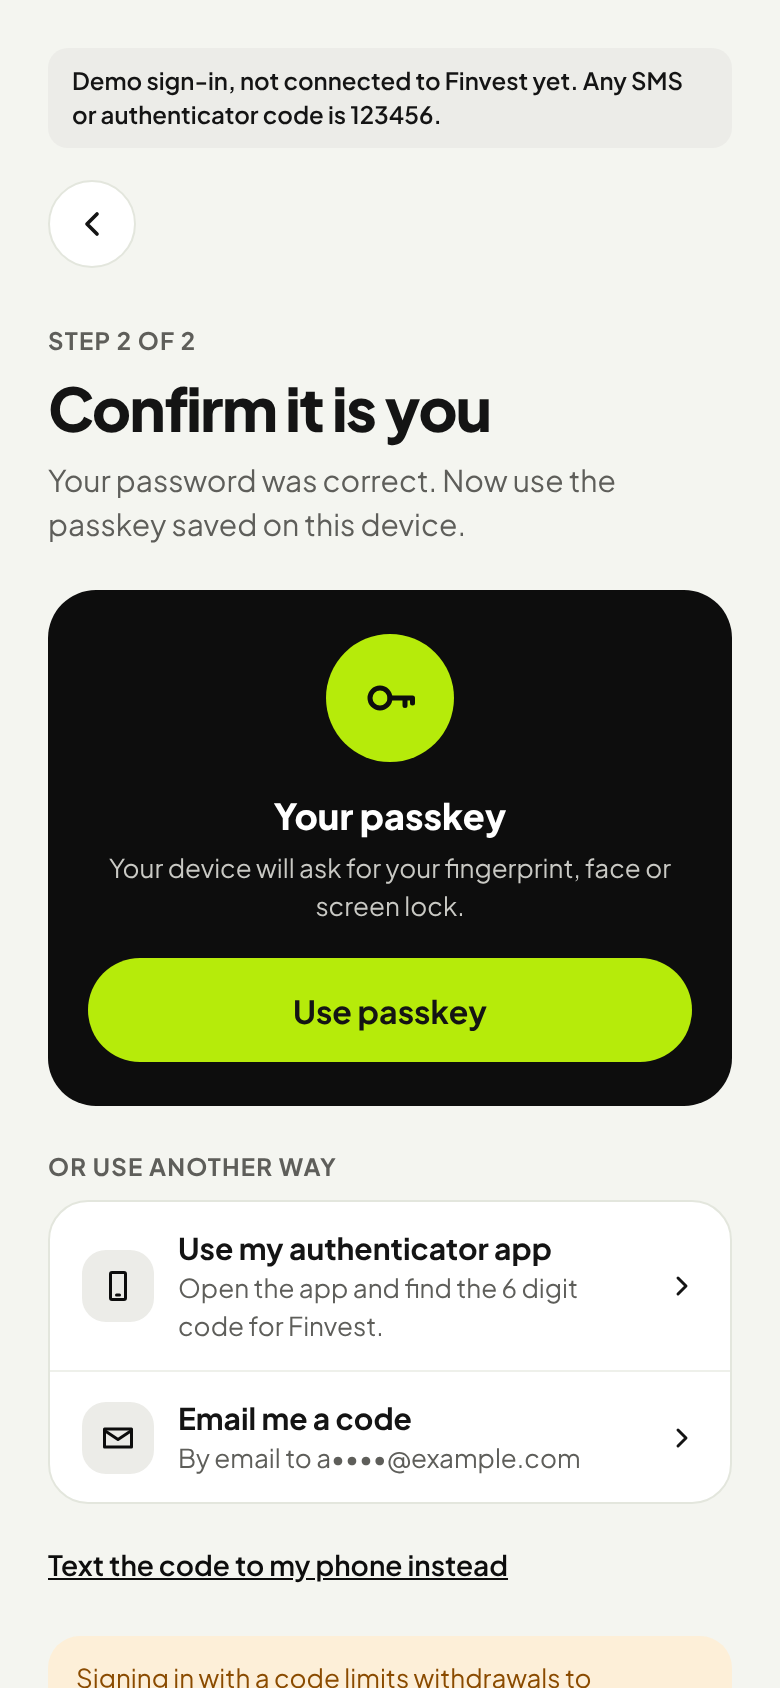
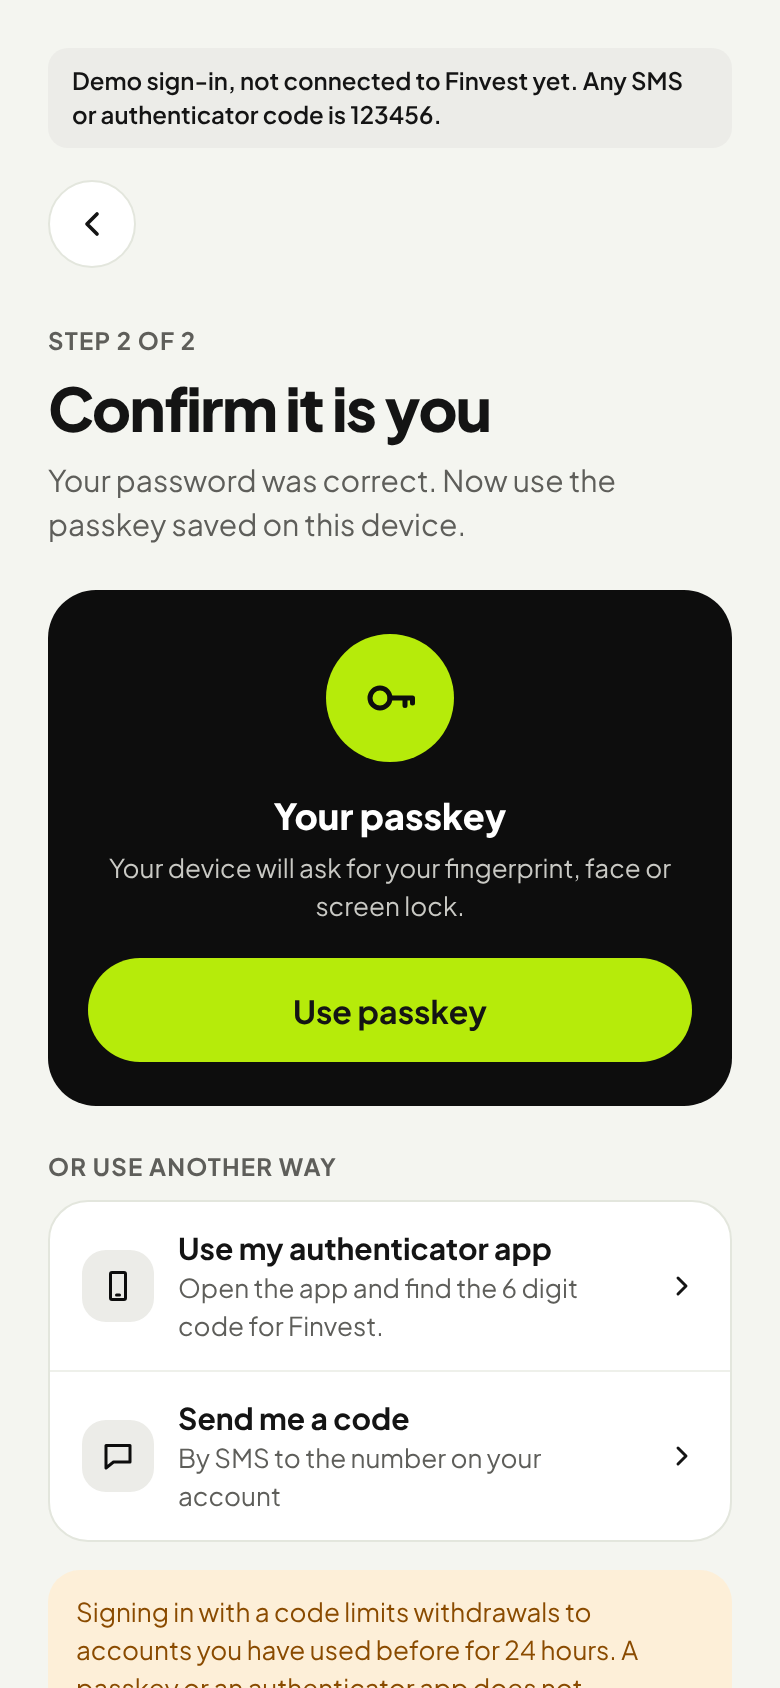
Email sign-in codes only to a proved address, and try every holder
Follow-ups from the review of the unconfirmed email log in. A code asked
for by email to an address the client has not proved is texted instead,
and the log in answer says whether a code can be emailed, so the app
offers the email only when it is proved. Several accounts may hold one
unproved address: the password is now tried against each of them (up to
three, newest first), so another account giving the same address cannot
shut the owner out of email log in.

diff --git a/apps/client/src/auth/__tests__/apiAuthClient.test.ts b/apps/client/src/auth/__tests__/apiAuthClient.test.ts
@@ -106,7 +106,7 @@ describe("the sign-in client for the real API", () => {
 
   it("logs in by a proved email and sends the code there", async () => {
     const seen = serve({
-      "POST /client/login/start": { status: 200, body: { login_id: ID, methods: ["code"] } },
+      "POST /client/login/start": { status: 200, body: { login_id: ID, methods: ["code"], email_codes: true } },
       "POST /client/login/code/send": { status: 204 },
     });
     const client = createApiAuthClient();
@@ -117,6 +117,12 @@ describe("the sign-in client for the real API", () => {
       { email: "amara@example.com", password: "pw" },
       { login_id: ID, channel: "email" },
     ]);
+  });
+
+  it("never offers to email a code to an address not proved yet", async () => {
+    serve({ "POST /client/login/start": { status: 200, body: { login_id: ID, methods: ["code"], email_codes: false } } });
+    const challenge = await createApiAuthClient().startLogin({ email: "amara@example.com" }, "pw");
+    expect(challenge).toEqual({ loginId: ID, phone: null, email: null, methods: ["code"] });
   });
 
   it("says an email log in was refused in words about the email", async () => {

diff --git a/apps/client/src/auth/__tests__/stubAuthClient.test.ts b/apps/client/src/auth/__tests__/stubAuthClient.test.ts
@@ -98,8 +98,10 @@ describe("log in", () => {
     // Joseph proved his address; Amara has not proved hers yet.
     const challenge = await auth.startLogin({ email: "Joseph@Example.com" }, DEMO_PASSWORD);
     expect(challenge).toMatchObject({ phone: null, email: "joseph@example.com" });
+    // Not proved, so no code goes to that address: it is texted instead.
     await expect(auth.startLogin({ email: "amara@example.com" }, DEMO_PASSWORD)).resolves.toMatchObject({
-      email: "amara@example.com",
+      phone: null,
+      email: null,
     });
     expect(await codeOf(auth.startLogin({ email: "amara@example.com" }, "wrong password"))).toBe(
       "invalid_email_credentials",

diff --git a/apps/client/src/auth/stubAuthClient.ts b/apps/client/src/auth/stubAuthClient.ts
@@ -463,7 +463,9 @@ export function createStubAuthClient(options: StubOptions = {}): AuthClient {
       }
       const loginId = nextId("login");
       logins.set(loginId, phone);
-      return { loginId, phone: byEmail ? null : phone, email, methods: methodsFor(account) };
+      // Like the API, a code is emailed only to a proved address.
+      const codeEmail = byEmail && account.emailVerified ? email : null;
+      return { loginId, phone: byEmail ? null : phone, email: codeEmail, methods: methodsFor(account) };
     },
 
     async verifyWithPasskey(loginId): Promise<Session> {

diff --git a/apps/client/src/auth/types.ts b/apps/client/src/auth/types.ts
@@ -135,7 +135,10 @@ export type LoginChallenge = {
   loginId: string;
   /** The number typed to log in. Null for a log in by email, which never shows the number. */
   phone: string | null;
-  /** The proved address typed to log in, so a code can go there. Null for a log in by number. */
+  /**
+   * The address typed to log in, when it is proved, so a code can go there.
+   * Null for a log in by number, or by an address not confirmed yet.
+   */
   email: string | null;
   /** Where the code was last sent, once one has been. */
   codeSentBy?: CodeChannel;

diff --git a/apps/client/src/__tests__/signInFlow.test.tsx b/apps/client/src/__tests__/signInFlow.test.tsx
@@ -95,6 +95,9 @@ describe("the shell, from the first screen", () => {
     await fireEvent.changeText(screen.getByTestId("password-input"), DEMO_PASSWORD);
     await fireEvent.press(screen.getByTestId("login-submit"));
     await screen.findByText("Confirm it is you");
+    // The address is not confirmed, so a code is texted, never emailed there.
+    expect(screen.queryByText(/By email to/)).toBeNull();
+    expect(screen.getByText("Send me a code")).toBeTruthy();
   });
 
   it("shows one message for a wrong password and stays on the form", async () => {

diff --git a/apps/client/src/auth/apiAuthClient.ts b/apps/client/src/auth/apiAuthClient.ts
@@ -150,7 +150,8 @@ export function createApiAuthClient(): AuthClient {
           return {
             loginId: result.login_id,
             phone: byEmail ? null : identifier.phone,
-            email: byEmail ? identifier.email.trim() : null,
+            // A code goes by email only to an address the client proved. Otherwise it is texted.
+            email: byEmail && result.email_codes ? identifier.email.trim() : null,
             methods: usable(result.methods),
           };
         } catch (error) {

diff --git a/packages/api-client/src/staff.gen.ts b/packages/api-client/src/staff.gen.ts
@@ -1872,6 +1872,7 @@ export const LoginPasskeyOptions = z.object({
 export type LoginPasskeyOptions = z.infer<typeof LoginPasskeyOptions>;
 
 export const LoginStarted = z.object({
+  email_codes: z.boolean().optional(),
   login_id: z.string(),
   methods: z.array(z.enum(["passkey", "authenticator", "code", "signup"])),
 });

diff --git a/packages/api-client/src/client.gen.ts b/packages/api-client/src/client.gen.ts
@@ -893,6 +893,7 @@ export const LoginPasskeyOptions = z.object({
 export type LoginPasskeyOptions = z.infer<typeof LoginPasskeyOptions>;
 
 export const LoginStarted = z.object({
+  email_codes: z.boolean().optional(),
   login_id: z.string(),
   methods: z.array(z.enum(["passkey", "authenticator", "code", "signup"])),
 });

diff --git a/backend/app/modules/identity/service.py b/backend/app/modules/identity/service.py
@@ -52,6 +52,8 @@ AccountKind = Literal["client", "staff"]
 ACCOUNT_FROM_ADDRESS_ATTEMPTS = 4  # Solo, 2026-11-15
 ACCOUNT_ATTEMPTS = 20
 ADDRESS_ATTEMPTS = 50
+# Accounts tried for one email address that none of them has proved. Each costs a hash check.
+UNPROVED_HOLDERS_TRIED = 3
 TOUCH_INTERVAL = timedelta(minutes=1)
 # Approving another person's change needs a second step this recent.
 CONFIRMATION_WINDOW = timedelta(minutes=10)
@@ -69,6 +71,8 @@ class _PasswordMatch:
     id: str
     password_hash: str
     proved: bool
+    # The client has proved the email address on their account, so codes may go there.
+    email_proved: bool
 
 
 @dataclass(frozen=True, slots=True)
@@ -77,6 +81,8 @@ class LoginChallenge:
     methods: list[SecondStep]
     # The client, when they signed in by an email address they have not proved yet.
     unproved_email_of: str | None = None
+    # Whether a sign-in code may be emailed: only to an address the client proved.
+    email_codes: bool = False
 
 
 @dataclass(frozen=True, slots=True)
@@ -279,7 +285,10 @@ class IdentityService:
         logger.info("login_started", kind=kind, login_id=challenge_id)
         # In the order to offer them. The person finishes with any one.
         return LoginChallenge(
-            challenge_id, methods, unproved_email_of=None if account.proved else account.id
+            challenge_id,
+            methods,
+            unproved_email_of=None if account.proved else account.id,
+            email_codes=account.email_proved,
         )
 
     async def _check_password(
@@ -304,41 +313,75 @@ class IdentityService:
 
         if kind == "client" and by_email:
             # Only one account can prove an address, but several may hold it unproved. A proved
-            # holder answers for the address, and otherwise the newest account holding it.
+            # holder alone answers for the address. Otherwise every holder is tried, newest
+            # first, so another account giving the same address cannot shut the owner out.
             query = (
-                "SELECT id, phone, password_hash, email_verified_at IS NOT NULL AS proved "
+                "SELECT id, phone, password_hash, email_verified_at IS NOT NULL AS proved, "
+                "email_verified_at IS NOT NULL AS email_proved "
                 "FROM identity_clients WHERE email = :identifier AND status = 'active' "
-                "ORDER BY email_verified_at IS NOT NULL DESC, created_at DESC, id DESC LIMIT 1"
+                "ORDER BY email_verified_at IS NOT NULL DESC, created_at DESC, id DESC "
+                "LIMIT :holders"
             )
         elif kind == "client":
             query = (
-                "SELECT id, phone, password_hash, true AS proved FROM identity_clients "
+                "SELECT id, phone, password_hash, true AS proved, "
+                "email_verified_at IS NOT NULL AS email_proved FROM identity_clients "
                 "WHERE phone = :identifier AND status = 'active'"
             )
         else:
             query = (
-                "SELECT id, email AS phone, password_hash, true AS proved FROM identity_staff "
-                "WHERE email = :identifier AND status = 'active'"
+                "SELECT id, email AS phone, password_hash, true AS proved, false AS email_proved "
+                "FROM identity_staff WHERE email = :identifier AND status = 'active'"
             )
         async with self.database.transaction() as session:
-            account = (await session.execute(text(query), {"identifier": identifier})).one_or_none()
+            rows = list(
+                (
+                    await session.execute(
+                        text(query), {"identifier": identifier, "holders": UNPROVED_HOLDERS_TRIED}
+                    )
+                ).all()
+            )
+        if rows and rows[0].proved:
+            rows = rows[:1]
 
         # A client's attempts count against their number whichever way they sign in, so the
-        # email gives no second budget of guesses. An unknown address counts against itself.
-        counted = account.phone if account is not None and kind == "client" else identifier
-        account_key = throttle_key(f"{kind}-account", counted)
-        pair_key = throttle_key(f"{kind}-account-from", f"{counted}\x00{address}")
-        keys = [(account_key, ACCOUNT_ATTEMPTS), (pair_key, ACCOUNT_FROM_ADDRESS_ATTEMPTS)]
+        # email gives no second budget of guesses. A guess at an address several accounts hold
+        # counts against each of them. An unknown address counts against itself.
+        counted = [row.phone for row in rows] if rows and kind == "client" else [identifier]
+        own_keys = {
+            phone: [
+                throttle_key(f"{kind}-account", phone),
+                throttle_key(f"{kind}-account-from", f"{phone}\x00{address}"),
+            ]
+            for phone in counted
+        }
+        keys = [
+            (key, limit)
+            for account_key, pair_key in own_keys.values()
+            for key, limit in (
+                (account_key, ACCOUNT_ATTEMPTS),
+                (pair_key, ACCOUNT_FROM_ADDRESS_ATTEMPTS),
+            )
+        ]
         if address is not None:
             keys.append((throttle_key("address", address), ADDRESS_ATTEMPTS))
         await reserve_attempts(self.database, self.clock, keys)
 
-        hashed = account.password_hash if account is not None else None
-        if not await self.hasher.verify(password, hashed) or account is None:
+        # One hash check per holder, or one against nothing when there is none.
+        account = None
+        if not rows:
+            await self.hasher.verify(password, None)
+        for row in rows:
+            if await self.hasher.verify(password, row.password_hash):
+                account = row
+                break
+        if account is None:
             logger.info("login_refused", kind=kind, error_code="invalid_credentials")
             raise ApplicationError("invalid_credentials")
-        match = _PasswordMatch(account.id, account.password_hash, bool(account.proved))
-        return match, [account_key, pair_key]
+        match = _PasswordMatch(
+            account.id, account.password_hash, bool(account.proved), bool(account.email_proved)
+        )
+        return match, own_keys[account.phone if kind == "client" else identifier]
 
     # Sessions
 

diff --git a/backend/tests/integration/test_email_checks.py b/backend/tests/integration/test_email_checks.py
@@ -315,13 +315,66 @@ async def test_a_proved_holder_answers_for_an_address_another_holds_unproved(api
     await api.identity.create_client(
         phone=f"+256{number}", email=email, password="another-long-passphrase"
     )
-    # Unproved, the newest holder answers for the address.
+    # Unproved, every holder is tried, so each logs in with their own password.
     assert (await login_by_email(api, email, "another-long-passphrase")).status_code == 200
+    assert (await login_by_email(api, email)).status_code == 200
     assert (await prove(api, email, first)).status_code == 204
     # Then the proved holder does, so the other account's password is refused.
     other = await login_by_email(api, email, "another-long-passphrase")
     assert (other.status_code, other.json()["error"]["code"]) == (401, "invalid_credentials")
     assert (await login_by_email(api, email)).status_code == 200
+
+
+async def test_a_newer_unproved_holder_cannot_shut_the_older_one_out(api: Api) -> None:
+    _, email, _ = await a_client(api)
+    assert email is not None
+    api.clock.advance(seconds=1)
+    await api.identity.create_client(
+        phone=f"+256{next(_numbers)}", email=email, password="another-long-passphrase"
+    )
+    older = await login_by_email(api, email)
+    assert older.status_code == 200
+    neither = await login_by_email(api, email, "not-the-password-at-all")
+    assert (neither.status_code, neither.json()["error"]["code"]) == (401, "invalid_credentials")
+
+
+async def sent_codes(api: Api, channel: str) -> list[str]:
+    async with api.worker.transaction() as session:
+        rows = await session.execute(
+            text(
+                "SELECT recipient FROM notification_messages "
+                "WHERE channel = :channel AND template = 'sign_in_code' ORDER BY id"
+            ),
+            {"channel": channel},
+        )
+        return [row.recipient for row in rows]
+
+
+async def test_sign_in_codes_are_emailed_only_to_a_proved_address(api: Api) -> None:
+    client_id, email, bearer = await a_client(api)
+    assert email is not None
+    async with api.worker.transaction() as session:
+        contact = await client_contact(session, client_id)
+    assert contact is not None
+    unproved = await login_by_email(api, email)
+    assert unproved.json()["email_codes"] is False
+    asked = await api.http.post(
+        "/client/login/code/send",
+        json={"login_id": unproved.json()["login_id"], "channel": "email"},
+    )
+    assert asked.status_code == 204
+    # Asked for by email, but texted, because the address is not proved.
+    assert email not in await sent_codes(api, "email")
+    assert contact.phone in await sent_codes(api, "sms")
+
+    assert (await prove(api, email, bearer)).status_code == 204
+    proved = await login_by_email(api, email)
+    assert proved.json()["email_codes"] is True
+    await api.http.post(
+        "/client/login/code/send",
+        json={"login_id": proved.json()["login_id"], "channel": "email"},
+    )
+    assert email in await sent_codes(api, "email")
 
 
 async def test_login_takes_a_phone_or_an_email_not_both(api: Api) -> None:

diff --git a/backend/tests/integration/test_codes.py b/backend/tests/integration/test_codes.py
@@ -38,11 +38,15 @@ class Api:
     identity: IdentityService
     clock: FakeClock
     worker: Database
+    owner: Database
 
 
 @pytest.fixture
 async def api(
-    test_database: TestDatabase, app_database: Database, worker_database: Database
+    test_database: TestDatabase,
+    app_database: Database,
+    worker_database: Database,
+    migrator_database: Database,
 ) -> AsyncIterator[Api]:
     settings = test_database.settings("finvest_app").model_copy(
         update={"client_allowed_origins": [ORIGIN]}
@@ -57,7 +61,7 @@ async def api(
     async with httpx.AsyncClient(
         transport=transport, base_url="https://api", headers=address
     ) as http:
-        yield Api(http, app.state.identity, clock, worker_database)
+        yield Api(http, app.state.identity, clock, worker_database, migrator_database)
 
 
 def a_phone() -> str:
@@ -444,12 +448,23 @@ async def test_a_code_for_one_sign_in_does_not_finish_another(api: Api) -> None:
     assert (response.status_code, code(response)) == (410, "expired")
 
 
-async def test_the_code_goes_by_email_only_when_the_client_has_an_address(api: Api) -> None:
+async def test_the_code_goes_by_email_only_to_a_proved_address(api: Api) -> None:
     address = f"client{next(_numbers)}@example.com"
-    phone, _ = await a_client(api, address)
+    phone, client_id = await a_client(api, address)
+    # Not proved: a stranger could own a mistyped address, so the code is texted.
     login_id = await start_login(api, phone)
     await api.http.post("/client/login/code/send", json={"login_id": login_id, "channel": "email"})
-    assert await texted(api, phone) == []
+    assert await texted(api, address) == []
+    assert len(await texted(api, phone)) == 1
+
+    async with api.owner.transaction() as session:
+        await session.execute(
+            text("UPDATE identity_clients SET email_verified_at = now() WHERE id = :id"),
+            {"id": client_id},
+        )
+    login_id = await start_login(api, phone)
+    await api.http.post("/client/login/code/send", json={"login_id": login_id, "channel": "email"})
+    assert len(await texted(api, phone)) == 1
     [emailed] = await texted(api, address)
     assert (
         await api.http.post(

diff --git a/backend/app/modules/identity/codes.py b/backend/app/modules/identity/codes.py
@@ -363,11 +363,14 @@ class CodeService:
         async with self.database.transaction() as session:
             account = (
                 await session.execute(
-                    text("SELECT phone, email FROM identity_clients WHERE id = :id"),
+                    text(
+                        "SELECT phone, CASE WHEN email_verified_at IS NOT NULL THEN email END "
+                        "AS email FROM identity_clients WHERE id = :id"
+                    ),
                     {"id": actor.id},
                 )
             ).one()
-            # Email only if the client gave an address. Otherwise the code is texted.
+            # Email only to an address the client proved. Otherwise the code is texted.
             by_email = channel == "email" and account.email is not None
             await self._issue(
                 session,
